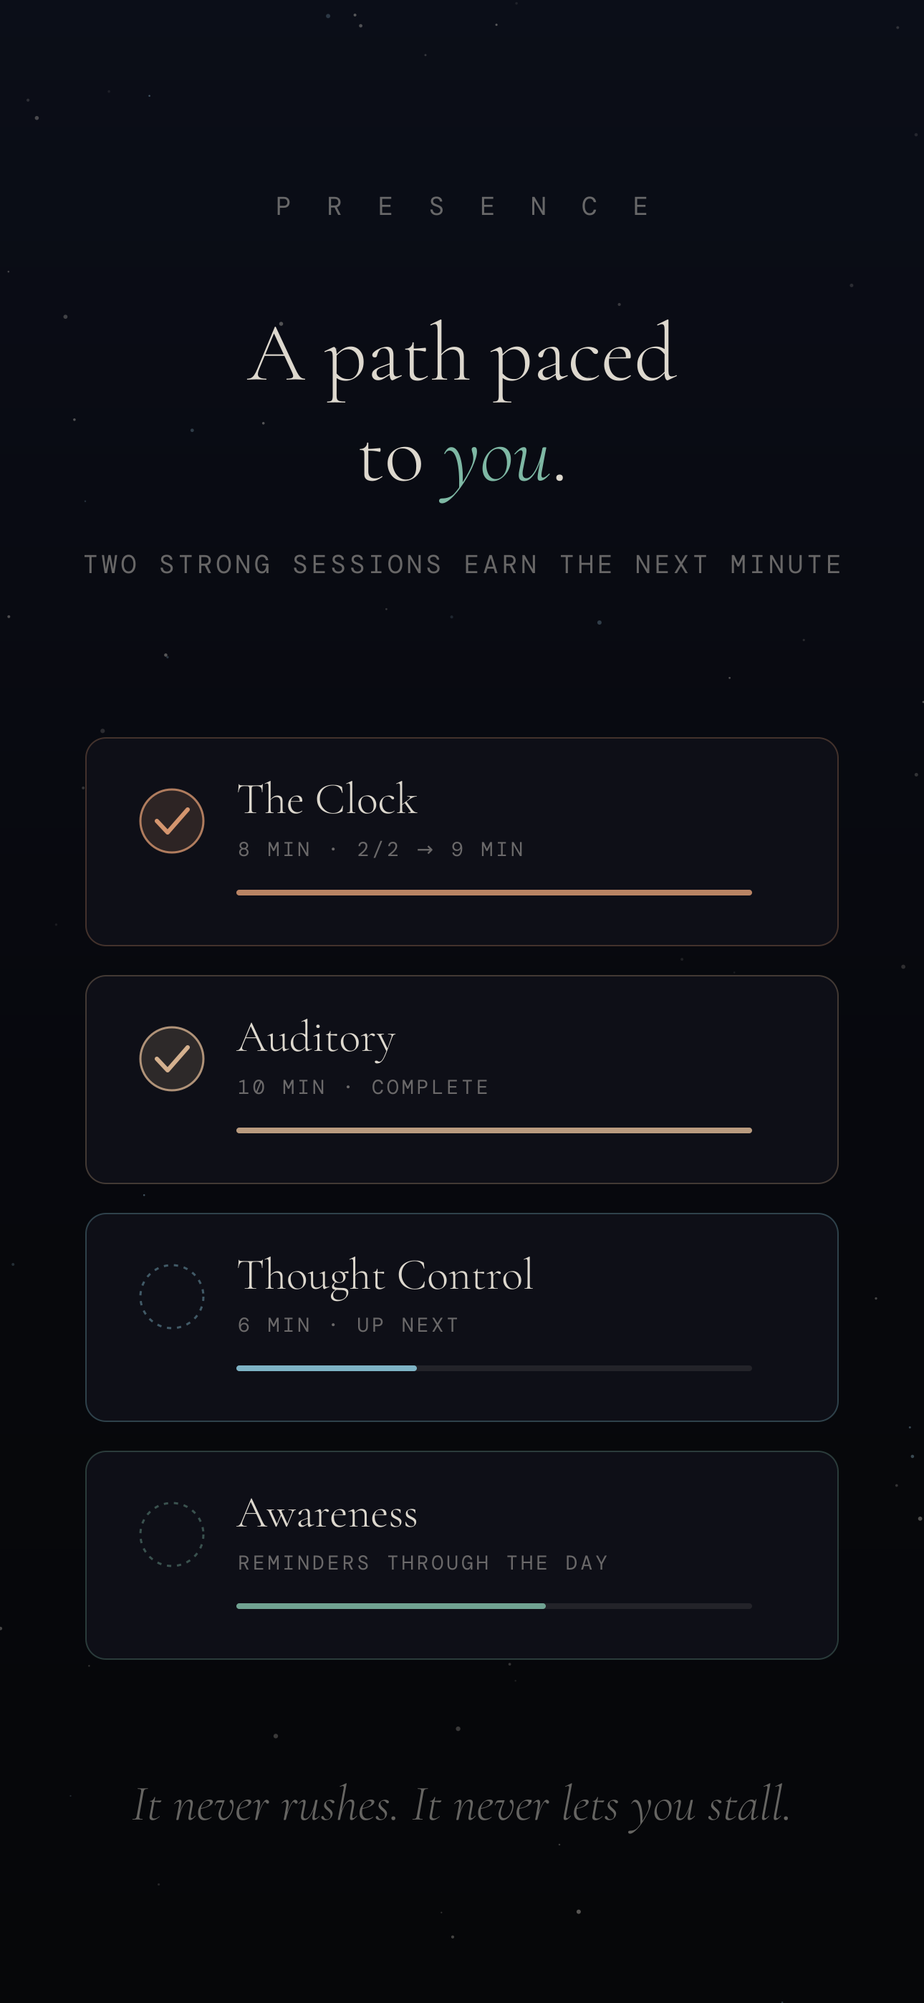
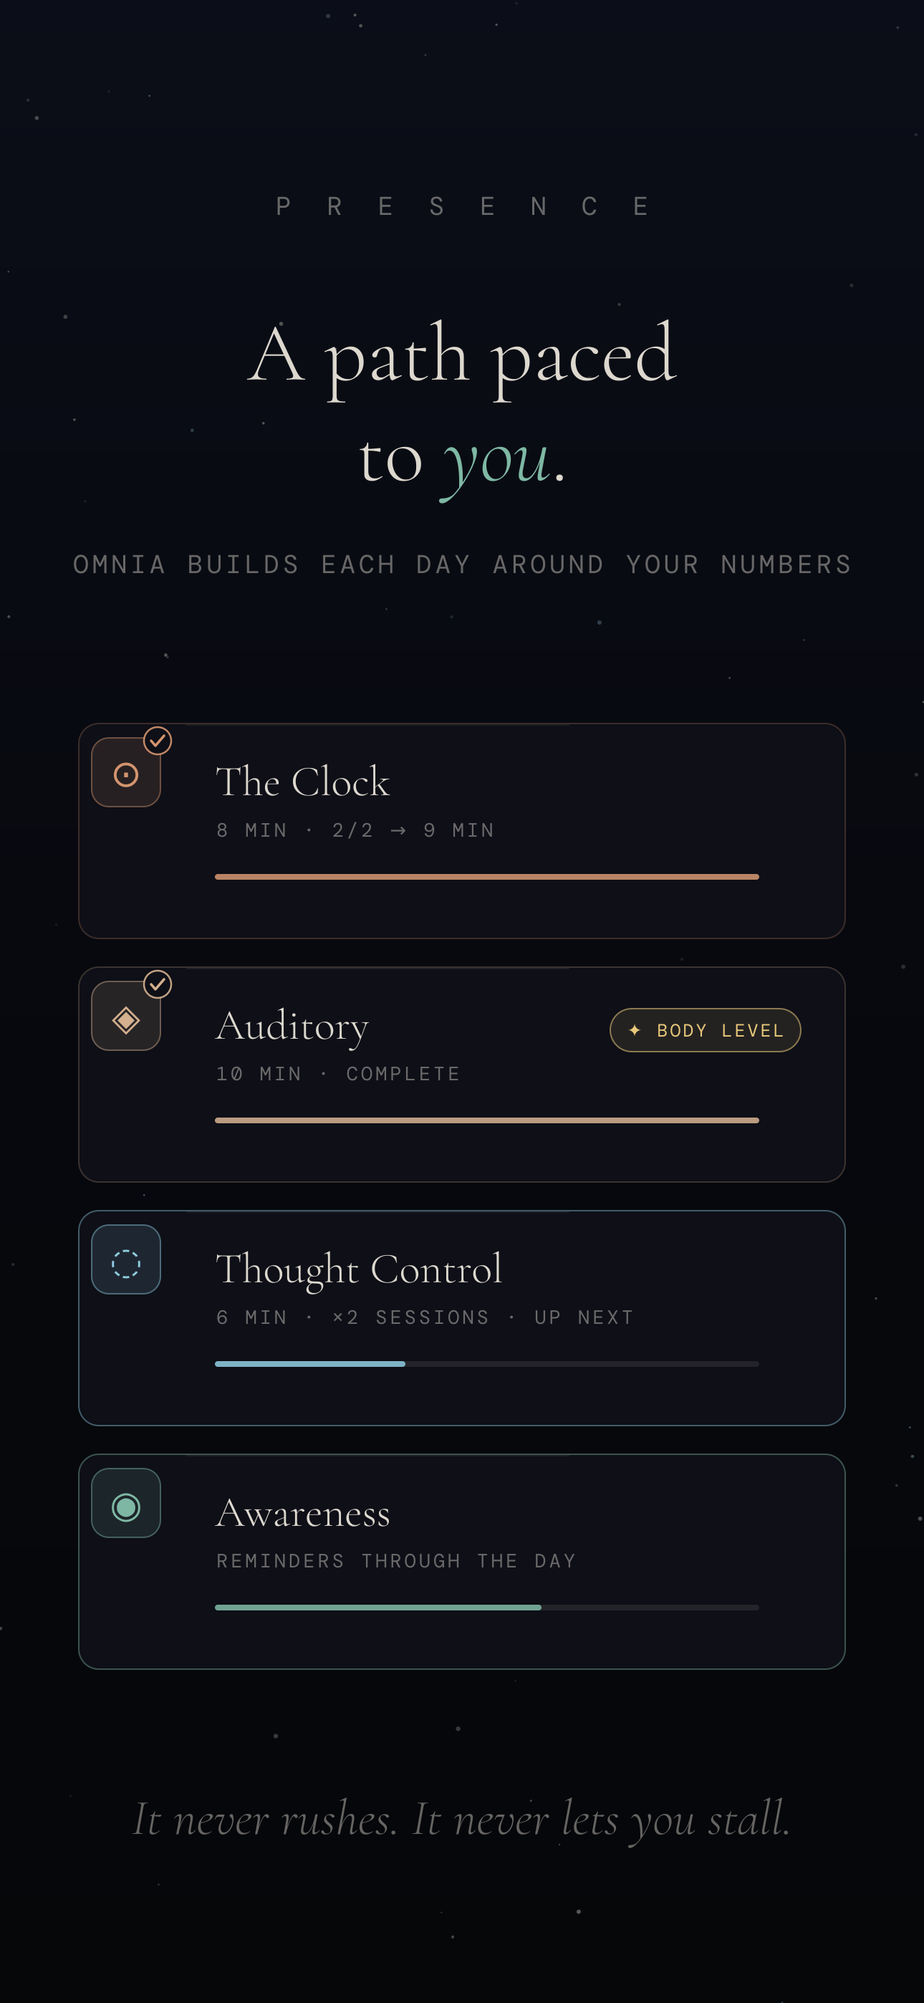
marketing: redesign App Store cards 2-4, new endgame card 5
- 02 disciplines: bare dots replaced with the app's line-icon language (sun,
  clock, inner eye, resonance arcs, stillness ring, meditator) in tinted icon
  chips; tiles get per-discipline gradients + top highlight, matching the
  in-app sound-tile look.
- 03 Omnia: 'grows as you do' is now SHOWN — a growth triptych (Day One bare
  crystal -> Step V with orbiting triad shards -> Step X crowned with drawn
  diadem stars, halo and polar pillars, gold label). Palette dots became cut
  gems; the odd wisp removed.
- 04 path: per-exercise glyph chips (DejaVu ⊙◈◌◉) with corner done-badges,
  a gold '✦ BODY LEVEL' pill on Auditory teasing Omnia's rewards, richer
  metas (×2 sessions), sub copy now 'Omnia builds each day around your
  numbers'.
- 05: progress card replaced by the endgame card — 'A practice with an
  endgame.': ring of the ten sphere sigils in their colors around a
  gold-tinted Omnia crystal with three prestige stars; chips for 15 tools /
  dark matter / 10 spheres; closing line on Prestige.
- generate.js: star4 + discIcon + goldCrystal helpers; brand fonts installed
  at render time (Cormorant Garamond, DM Mono).

diff --git a/marketing/generate.js b/marketing/generate.js
@@ -149,75 +149,137 @@ function card1() {
   `, 7);
 }
 
+// ── helpers for the redesigned cards ────────────────────────────────────────
+
+// 4-point star (diadem/sparkle) — drawn, not a glyph, so no font risk.
+function star4(cx, cy, r, c, o = 1) {
+  const k = r * 0.26;
+  return `<path d="M${cx},${cy - r} L${cx + k},${cy - k} L${cx + r},${cy} L${cx + k},${cy + k} L${cx},${cy + r} L${cx - k},${cy + k} L${cx - r},${cy} L${cx - k},${cy - k} Z" fill="${c}" opacity="${o}" filter="url(#soft)"/>`;
+}
+
+// Line icons for the six disciplines (24-box, stroke currentColor style).
+function discIcon(name, cx, cy, size, c) {
+  const s = size / 24;
+  const P = (d) => `<path d="${d}" fill="none" stroke="${c}" stroke-width="1.7" stroke-linecap="round" stroke-linejoin="round"/>`;
+  const C = (x, y, r, fill) => `<circle cx="${x}" cy="${y}" r="${r}" ${fill ? `fill="${c}" stroke="none"` : `fill="none" stroke="${c}" stroke-width="1.7"`}/>`;
+  let inner = '';
+  if (name === 'awareness') inner = C(12,12,4.4) + P('M12 3.2v2.4M12 18.4v2.4M3.2 12h2.4M18.4 12h2.4M5.9 5.9l1.7 1.7M16.4 16.4l1.7 1.7M18.1 5.9l-1.7 1.7M7.6 16.4l-1.7 1.7');
+  if (name === 'clock')     inner = C(12,12,8.4) + P('M12 6.6V12l3.6 2.2');
+  if (name === 'visual')    inner = P('M2.6 12S6 5.8 12 5.8 21.4 12 21.4 12 18 18.2 12 18.2 2.6 12 2.6 12z') + C(12,12,2.6) + C(12,12,0.9,true);
+  if (name === 'auditory')  inner = C(5.5,12,1.2,true) + P('M8.5 9a4.4 4.4 0 0 1 0 6') + P('M11.5 6.5a8.2 8.2 0 0 1 0 11') + P('M14.5 4a12.2 12.2 0 0 1 0 16');
+  if (name === 'thought')   inner = C(12,12,8.4) + C(12,12,1.6,true);
+  if (name === 'asana')     inner = C(12,5.6,2.6) + P('M12 8.6c-2.6 0-4.4 1.8-5.2 4.4L4 17.4c2.4 1.6 5.2 2.4 8 2.4s5.6-.8 8-2.4l-2.8-4.4c-.8-2.6-2.6-4.4-5.2-4.4z') + P('M8.6 15.4h6.8');
+  return `<g transform="translate(${cx - size / 2}, ${cy - size / 2}) scale(${s})">${inner}</g>`;
+}
+
 // ── card 2: six disciplines ──────────────────────────────────────────────────
 
 function card2() {
   const tiles = [
-    { name: 'Awareness', sub: 'RETURN TO NOW', c: ACCENT },
-    { name: 'The Clock', sub: 'UNBROKEN FOCUS', c: AMBER },
-    { name: 'Visualization', sub: 'THE INNER EYE', c: PURPLE },
-    { name: 'Auditory', sub: 'THE INNER EAR', c: '#d4b08e' },
-    { name: 'Thought Control', sub: 'MASTER THE MIND', c: '#8ecce0' },
-    { name: 'Asana', sub: 'STILL THE BODY', c: ROSE },
+    { id:'awareness', name: 'Awareness',      sub: 'RETURN TO NOW',   c: ACCENT },
+    { id:'clock',     name: 'The Clock',      sub: 'UNBROKEN FOCUS',  c: AMBER },
+    { id:'visual',    name: 'Visualization',  sub: 'THE INNER EYE',   c: PURPLE },
+    { id:'auditory',  name: 'Auditory',       sub: 'THE INNER EAR',   c: '#d4b08e' },
+    { id:'thought',   name: 'Thought Control',sub: 'MASTER THE MIND', c: '#8ecce0' },
+    { id:'asana',     name: 'Asana',          sub: 'STILL THE BODY',  c: ROSE },
   ];
-  const gx = 120, gw = W - gx * 2, gap = 36;
-  const tw = (gw - gap) / 2, th = 360;
-  let g = '';
+  const gx = 110, gw = W - gx * 2, gap = 34;
+  const tw = (gw - gap) / 2, th = 396;
+  let defs = '', g = '';
   tiles.forEach((t, i) => {
     const col = i % 2, row = (i / 2) | 0;
-    const x = gx + col * (tw + gap), y = 950 + row * (th + gap);
+    const x = gx + col * (tw + gap), y = 930 + row * (th + gap);
+    defs += `<linearGradient id="t${i}g" x1="0" y1="0" x2="0.6" y2="1">
+      <stop offset="0" stop-color="${t.c}" stop-opacity="0.13"/>
+      <stop offset="1" stop-color="${t.c}" stop-opacity="0.03"/></linearGradient>`;
     g += `
-    <rect x="${x}" y="${y}" width="${tw}" height="${th}" rx="30" fill="${t.c}" opacity="0.07"/>
-    <rect x="${x}" y="${y}" width="${tw}" height="${th}" rx="30" fill="none" stroke="${t.c}" stroke-opacity="0.34" stroke-width="2"/>
-    <circle cx="${x + tw / 2}" cy="${y + 118}" r="10" fill="${t.c}" opacity="0.85" filter="url(#soft)"/>
-    ${serif(x + tw / 2, y + 235, 64, TEXT, t.name)}
-    ${mono(x + tw / 2, y + 300, 26, MUTED, t.sub, 6)}`;
+    <rect x="${x}" y="${y}" width="${tw}" height="${th}" rx="30" fill="url(#t${i}g)"/>
+    <rect x="${x}" y="${y}" width="${tw}" height="${th}" rx="30" fill="none" stroke="${t.c}" stroke-opacity="0.38" stroke-width="2"/>
+    <rect x="${x + tw * 0.18}" y="${y + 1}" width="${tw * 0.64}" height="2" fill="#ffffff" opacity="0.08"/>
+    <rect x="${x + tw / 2 - 52}" y="${y + 52}" width="104" height="104" rx="26" fill="${t.c}" opacity="0.13"/>
+    <rect x="${x + tw / 2 - 52}" y="${y + 52}" width="104" height="104" rx="26" fill="none" stroke="${t.c}" stroke-opacity="0.42" stroke-width="2"/>
+    ${discIcon(t.id, x + tw / 2, y + 104, 62, t.c)}
+    ${serif(x + tw / 2, y + 262, 60, TEXT, t.name)}
+    ${mono(x + tw / 2, y + 326, 25, MUTED, t.sub, 5)}`;
   });
   return shell(`
+  <defs>${defs}</defs>
   ${wordmark(300)}
   ${serif(W / 2, 530, 116, TEXT, 'Six disciplines.')}
   ${serif(W / 2, 670, 116, ACCENT, 'One path.', 'middle', 'font-style="italic"')}
   ${mono(W / 2, 800, 36, MUTED, 'CLASSICAL CONCENTRATION TRAINING, MADE DAILY', 5)}
   ${g}
-  ${mono(W / 2, 2280 + 90, 34, FAINT, 'EACH SESSION MEASURED · EVERY REP COUNTS', 6)}
+  ${mono(W / 2, 2400, 34, FAINT, 'EACH SESSION MEASURED · EVERY REP COUNTS', 6)}
   `, 19);
 }
 
-// ── card 3: meet Omnia ───────────────────────────────────────────────────────
+// ── card 3: meet Omnia — she visibly grows ───────────────────────────────────
 
 function card3() {
-  const cy = 1430;
+  const BASE = 1760; // shared baseline for the three crystals
+  const forms = [
+    { cx: 250,  w: 230, label: 'DAY ONE' },
+    { cx: 645,  w: 330, label: 'STEP V' },
+    { cx: 1035, w: 470, label: 'STEP X' },
+  ];
+  const at = (idp, f) => crystalAt(idp, f.cx, BASE - (130 * (f.w / 80)) / 2, f.w);
+
+  // Step V adornment: the triad shards on a tilted orbit ring.
+  const shardCols = ['#e8b8a0', '#c4a8d4', '#a8c8e8'];
+  const orbit = (cx, cy, rx, ry) => {
+    let o = `<ellipse cx="${cx}" cy="${cy}" rx="${rx}" ry="${ry}" fill="none" stroke="#b8eaff" stroke-opacity="0.25" stroke-width="1.6" stroke-dasharray="3 9"/>`;
+    [[0.06, -1], [0.5, 1.06], [0.88, -0.72]].forEach((p, i) => {
+      const a = p[0] * Math.PI * 2, sx = cx + Math.cos(a) * rx, sy = cy + Math.sin(a) * ry * p[1];
+      o += `<polygon points="${sx},${sy - 13} ${sx + 11},${sy - 4} ${sx + 7},${sy + 12} ${sx - 7},${sy + 12} ${sx - 11},${sy - 4}" fill="${shardCols[i]}" opacity="0.95" filter="url(#soft)"/>`;
+    });
+    return o;
+  };
+
+  // Step X adornment: gold crown-glow + drawn diadem stars + polar pillars.
+  const cx3 = forms[2].cx, top3 = BASE - 130 * (forms[2].w / 80);
+  const crownGlow = `<ellipse cx="${cx3}" cy="${top3 + 8}" rx="120" ry="74" fill="${GOLD}" opacity="0.16" filter="url(#soft)"/>`;
+  const diadem =
+    star4(cx3 - 84, top3 + 30, 12, '#f4e8c0', 0.75) +
+    star4(cx3 - 44, top3 + 2, 15, '#f4e8c0', 0.9) +
+    star4(cx3, top3 - 12, 19, '#fff2cf', 1) +
+    star4(cx3 + 44, top3 + 2, 15, '#f4e8c0', 0.9) +
+    star4(cx3 + 84, top3 + 30, 12, '#f4e8c0', 0.75);
+  const pillar = (px) => `<rect x="${px - 5}" y="${BASE - 430}" width="10" height="380" rx="5" fill="url(#pillarG)" opacity="0.7"/>`;
+
+  // palette shown as cut gems, not flat dots
   const palette = ['#b8eaff', '#ffc4d8', '#f0d39a', '#c4a8d4', '#98d8bd', '#e8554f'];
-  let dots = '';
-  const n = palette.length, dw = 110;
+  let gems = '';
   palette.forEach((c, i) => {
-    const x = W / 2 + (i - (n - 1) / 2) * dw;
-    dots += `<circle cx="${x}" cy="2010" r="30" fill="${c}"/>
-             <circle cx="${x}" cy="2010" r="30" fill="none" stroke="#ffffff" stroke-opacity="0.18" stroke-width="2"/>
-             <circle cx="${x}" cy="2010" r="42" fill="${c}" opacity="0.12"/>`;
+    const x = W / 2 + (i - (palette.length - 1) / 2) * 112, y = 2060;
+    gems += `<circle cx="${x}" cy="${y}" r="44" fill="${c}" opacity="0.14"/>
+      <polygon points="${x},${y - 26} ${x + 20},${y} ${x},${y + 26} ${x - 20},${y}" fill="${c}" opacity="0.95"/>
+      <polygon points="${x},${y - 26} ${x + 20},${y} ${x},${y}" fill="#ffffff" opacity="0.30"/>`;
   });
-  // little wisp companion beside the crystal
-  const wisp = `
-  <g transform="translate(${W / 2 + 240}, ${cy + 170}) scale(3.4)" opacity="0.95">
-    <path d="M22 23 C16 29 9 31 4 29 C9 27 12 23 13 18 C16 21 19 23 22 23 Z" fill="${BLUE}" opacity=".3" stroke="${BLUE}" stroke-width=".8"/>
-    <circle cx="27" cy="18" r="7.5" fill="${BLUE}" opacity=".4" stroke="${BLUE}" stroke-width="1.1"/>
-    <circle cx="26" cy="15.5" r="2.8" fill="#fff" opacity=".55"/>
-    <ellipse cx="24.5" cy="18.5" rx="1" ry="1.4" fill="#1c3344" opacity=".85"/>
-    <ellipse cx="29.5" cy="18.5" rx="1" ry="1.4" fill="#1c3344" opacity=".85"/>
-    <path d="M25.4 22.4 Q27 23.6 28.6 22.4" fill="none" stroke="#1c3344" stroke-width=".7" stroke-linecap="round" opacity=".7"/>
-  </g>`;
   return shell(`
-  <ellipse cx="${W / 2}" cy="${cy}" rx="600" ry="640" fill="url(#glow)"/>
+  <defs>
+    <linearGradient id="pillarG" x1="0" y1="0" x2="0" y2="1">
+      <stop offset="0" stop-color="#dff0ff" stop-opacity="0.85"/>
+      <stop offset="1" stop-color="#dff0ff" stop-opacity="0"/>
+    </linearGradient>
+  </defs>
+  <ellipse cx="${W / 2}" cy="1440" rx="640" ry="660" fill="url(#glow)"/>
   ${wordmark(300)}
   ${serif(W / 2, 530, 124, TEXT, `Meet <tspan fill="${BLUE}">Omnia</tspan>.`)}
   ${serif(W / 2, 680, 72, MUTED, 'A living guide that grows as you do.', 'middle', 'font-style="italic"')}
-  ${crystalAt('c3', W / 2, cy, 460)}
-  ${wisp}
-  <ellipse cx="${W / 2}" cy="${cy + 480}" rx="260" ry="30" fill="#8ecce0" opacity="0.06"/>
-  ${dots}
-  ${mono(W / 2, 2130, 32, MUTED, 'NEW FORMS · COLORS · COMPANIONS', 7)}
-  ${serif(W / 2, 2330, 70, TEXT, 'Practice earns akasha — spend it', 'middle')}
-  ${serif(W / 2, 2415, 70, TEXT, `to shape your <tspan fill="${ACCENT}" font-style="italic">guide</tspan>.`, 'middle')}
+  <g opacity="0.8">${at('c3a', forms[0])}</g>
+  ${orbit(forms[1].cx, BASE - 130 * (forms[1].w / 80) / 2, 250, 84)}
+  ${at('c3b', forms[1])}
+  ${pillar(cx3 - 185)}${pillar(cx3 + 185)}
+  ${at('c3c', forms[2])}
+  ${crownGlow}${diadem}
+  <ellipse cx="${W / 2}" cy="${BASE + 46}" rx="480" ry="30" fill="#8ecce0" opacity="0.06"/>
+  ${mono(forms[0].cx, BASE + 120, 26, FAINT, forms[0].label, 5)}
+  ${mono(forms[1].cx, BASE + 120, 26, MUTED, forms[1].label, 5)}
+  ${mono(forms[2].cx, BASE + 120, 26, GOLD, forms[2].label, 5)}
+  ${gems}
+  ${mono(W / 2, 2190, 32, MUTED, 'NEW FORMS · COLORS · COMPANIONS', 7)}
+  ${serif(W / 2, 2360, 70, TEXT, 'Practice earns akasha — spend it', 'middle')}
+  ${serif(W / 2, 2445, 70, TEXT, `to shape your <tspan fill="${ACCENT}" font-style="italic">guide</tspan>.`, 'middle')}
   `, 41);
 }
 
@@ -225,81 +287,115 @@ function card3() {
 
 function card4() {
   const rows = [
-    { name: 'The Clock', meta: '8 MIN · 2/2 → 9 MIN', c: AMBER, done: true, prog: 1.0 },
-    { name: 'Auditory', meta: '10 MIN · COMPLETE', c: '#d4b08e', done: true, prog: 1.0 },
-    { name: 'Thought Control', meta: '6 MIN · UP NEXT', c: '#8ecce0', done: false, prog: 0.35 },
-    { name: 'Awareness', meta: 'REMINDERS THROUGH THE DAY', c: ACCENT, done: false, prog: 0.6 },
+    { name: 'The Clock',       glyph: '⊙', meta: '8 MIN · 2/2 → 9 MIN',          c: AMBER,     done: true,  prog: 1.0 },
+    { name: 'Auditory',        glyph: '◈', meta: '10 MIN · COMPLETE',            c: '#d4b08e', done: true,  prog: 1.0, badge: '✦ BODY LEVEL' },
+    { name: 'Thought Control', glyph: '◌', meta: '6 MIN · ×2 SESSIONS · UP NEXT', c: '#8ecce0', done: false, prog: 0.35 },
+    { name: 'Awareness',       glyph: '◉', meta: 'REMINDERS THROUGH THE DAY',    c: ACCENT,    done: false, prog: 0.6 },
   ];
-  const x = 120, w = W - 240, rh = 290, gap = 42;
+  const x = 110, w = W - 220, rh = 300, gap = 40;
   let g = '';
   rows.forEach((r, i) => {
-    const y = 1030 + i * (rh + gap);
-    const check = r.done
-      ? `<circle cx="${x + 120}" cy="${y + 116}" r="44" fill="${r.c}" opacity="0.16"/>
-         <circle cx="${x + 120}" cy="${y + 116}" r="44" fill="none" stroke="${r.c}" stroke-width="3" stroke-opacity="0.8"/>
-         <path d="M ${x + 99} ${y + 116} l 15 16 l 28 -32" fill="none" stroke="${r.c}" stroke-width="6" stroke-linecap="round" stroke-linejoin="round"/>`
-      : `<circle cx="${x + 120}" cy="${y + 116}" r="44" fill="none" stroke="${r.c}" stroke-width="3" stroke-opacity="0.4" stroke-dasharray="6 8"/>`;
+    const y = 1010 + i * (rh + gap);
+    const chipX = x + 66, chipY = y + 68;
+    const badge = r.badge
+      ? `<rect x="${x + w - 328}" y="${y + 58}" width="266" height="60" rx="30" fill="${GOLD}" opacity="0.10"/>
+         <rect x="${x + w - 328}" y="${y + 58}" width="266" height="60" rx="30" fill="none" stroke="${GOLD}" stroke-opacity="0.55" stroke-width="2"/>
+         ${mono(x + w - 195, y + 97, 25, GOLD, r.badge, 3)}`
+      : '';
+    const doneMark = r.done
+      ? `<circle cx="${chipX + 44}" cy="${chipY - 44}" r="19" fill="#0e0f17"/>
+         <circle cx="${chipX + 44}" cy="${chipY - 44}" r="19" fill="none" stroke="${r.c}" stroke-width="2.5" stroke-opacity="0.9"/>
+         <path d="M ${chipX + 35} ${chipY - 44} l 6 7 l 12 -14" fill="none" stroke="${r.c}" stroke-width="3.5" stroke-linecap="round" stroke-linejoin="round"/>`
+      : '';
     g += `
     <rect x="${x}" y="${y}" width="${w}" height="${rh}" rx="28" fill="#0e0f17"/>
-    <rect x="${x}" y="${y}" width="${w}" height="${rh}" rx="28" fill="none" stroke="${r.c}" stroke-opacity="0.28" stroke-width="2"/>
-    ${check}
-    ${serif(x + 210, y + 105, 62, TEXT, r.name, 'start')}
-    ${mono(x + 212, y + 165, 28, MUTED, r.meta, 4, 'start')}
-    <rect x="${x + 210}" y="${y + 212}" width="${w - 330}" height="8" rx="4" fill="rgba(221,216,206,0.10)"/>
-    <rect x="${x + 210}" y="${y + 212}" width="${(w - 330) * r.prog}" height="8" rx="4" fill="${r.c}" opacity="0.85"/>`;
+    <rect x="${x}" y="${y}" width="${w}" height="${rh}" rx="28" fill="none" stroke="${r.c}" stroke-opacity="${r.done ? 0.24 : 0.42}" stroke-width="2"/>
+    <rect x="${x + w * 0.14}" y="${y + 1}" width="${w * 0.5}" height="2" fill="#ffffff" opacity="0.07"/>
+    <rect x="${chipX - 48}" y="${chipY - 48}" width="96" height="96" rx="24" fill="${r.c}" opacity="0.13"/>
+    <rect x="${chipX - 48}" y="${chipY - 48}" width="96" height="96" rx="24" fill="none" stroke="${r.c}" stroke-opacity="0.45" stroke-width="2"/>
+    <text x="${chipX}" y="${chipY + 20}" font-family="DejaVu Sans" font-size="52" fill="${r.c}" text-anchor="middle">${r.glyph}</text>
+    ${doneMark}
+    ${serif(x + 190, y + 100, 60, TEXT, r.name, 'start')}
+    ${mono(x + 192, y + 158, 27, MUTED, r.meta, 4, 'start')}
+    ${badge}
+    <rect x="${x + 190}" y="${y + 210}" width="${w - 310}" height="8" rx="4" fill="rgba(221,216,206,0.10)"/>
+    <rect x="${x + 190}" y="${y + 210}" width="${(w - 310) * r.prog}" height="8" rx="4" fill="${r.c}" opacity="0.85"/>`;
   });
   return shell(`
   ${wordmark(300)}
   ${serif(W / 2, 530, 116, TEXT, 'A path paced')}
   ${serif(W / 2, 670, 116, TEXT, `to <tspan fill="${ACCENT}" font-style="italic">you</tspan>.`)}
-  ${mono(W / 2, 800, 36, MUTED, 'TWO STRONG SESSIONS EARN THE NEXT MINUTE', 5)}
+  ${mono(W / 2, 800, 36, MUTED, 'OMNIA BUILDS EACH DAY AROUND YOUR NUMBERS', 5)}
   ${g}
-  ${serif(W / 2, 2540, 70, MUTED, 'It never rushes. It never lets you stall.', 'middle', 'font-style="italic"')}
+  ${serif(W / 2, 2560, 70, MUTED, 'It never rushes. It never lets you stall.', 'middle', 'font-style="italic"')}
   `, 67);
 }
 
-// ── card 5: progress ─────────────────────────────────────────────────────────
+// ── card 5: the endgame — prestige, dark matter, the ten spheres ─────────────
+
+function goldCrystal(idp) {
+  let c = crystal(idp);
+  const map = {
+    '#ddf0ff': '#fff2cf', '#6ab8d8': '#c99f52', '#b8eaff': '#ffe9b8', '#2878a0': '#8a6a28',
+    '#90cce8': '#d8b258', '#88c4e0': '#d8b258', '#ceeaff': '#fff4d6', '#b0dcf5': '#ecd9a8',
+    '#d4ecff': '#ffeec2', '#bce0f8': '#eeda9e', '#a8d8f2': '#e8cd94', '#b4dcf4': '#e8cd8e',
+    '#4a9ec0': '#a3812f', '#ffffff': '#fffaf0'
+  };
+  for (const [a, b] of Object.entries(map)) c = c.split(a).join(b);
+  return c;
+}
 
 function card5() {
-  // 14-day bar chart
-  const vals = [0.18, 0.3, 0.22, 0.4, 0.34, 0.52, 0.45, 0.6, 0.5, 0.72, 0.66, 0.8, 0.74, 0.95];
-  const cx = 140, cw = W - 280, ch = 560, cy0 = 1660;
-  const bw = cw / vals.length * 0.55, step = cw / vals.length;
-  let bars = '';
-  vals.forEach((v, i) => {
-    const bh = ch * v;
-    const x = cx + i * step + (step - bw) / 2;
-    bars += `<rect x="${x}" y="${cy0 - bh}" width="${bw}" height="${bh}" rx="${bw / 2}" fill="${ACCENT}" opacity="${0.35 + v * 0.6}"/>`;
+  const cx = W / 2, cy = 1500, R = 430;
+  const spheres = [
+    ['⊕', '#9cb88a'], ['☽', '#cdd6e8'], ['☿', '#e8b060'], ['♀', '#e89ab8'], ['☉', '#f0d860'],
+    ['♂', '#e06858'], ['♃', '#8898e8'], ['♄', '#8a98b0'], ['♅', '#7ed8e8'], ['♇', '#9a6ae8'],
+  ];
+  let ring = `
+  <circle cx="${cx}" cy="${cy}" r="${R}" fill="none" stroke="${GOLD}" stroke-opacity="0.22" stroke-width="2"/>
+  <circle cx="${cx}" cy="${cy}" r="${R - 74}" fill="none" stroke="${PURPLE}" stroke-opacity="0.20" stroke-width="1.6" stroke-dasharray="3 10"/>`;
+  spheres.forEach((sp, i) => {
+    const a = -Math.PI / 2 + (i / spheres.length) * Math.PI * 2;
+    const sx = cx + Math.cos(a) * R, sy = cy + Math.sin(a) * R;
+    ring += `<circle cx="${sx}" cy="${sy}" r="44" fill="#0b0d14"/>
+      <circle cx="${sx}" cy="${sy}" r="44" fill="none" stroke="${sp[1]}" stroke-opacity="0.5" stroke-width="2"/>
+      <circle cx="${sx}" cy="${sy}" r="58" fill="${sp[1]}" opacity="0.07"/>
+      <text x="${sx}" y="${sy + 22}" font-family="DejaVu Sans" font-size="58" fill="${sp[1]}" text-anchor="middle" filter="url(#soft)">${sp[0]}</text>`;
   });
+  // prestige pips beneath the gold crystal
+  const pips = [-56, 0, 56].map((dx) => star4(cx + dx, cy + 300, 17, '#f4e2b0', 0.95)).join('');
   const stats = [
-    { v: 'LV 12', l: 'CONCENTRATION' },
-    { v: '21', l: 'DAY STREAK' },
-    { v: '4:24', l: 'BEST HOLD' },
+    { v: '15', l: 'TOOLS FORGED', c: GOLD },
+    { v: '◆', l: 'DARK MATTER', c: '#b48ce0' },
+    { v: '10', l: 'SPHERES', c: BLUE },
   ];
   let chips = '';
-  const chw = 330, chh = 230, chGap = 30;
-  stats.forEach((s, i) => {
-    const x = (W - (chw * 3 + chGap * 2)) / 2 + i * (chw + chGap), y = 1850;
+  const chw = 330, chh = 220, chGap = 32;
+  stats.forEach((st, i) => {
+    const x = (W - (chw * 3 + chGap * 2)) / 2 + i * (chw + chGap), y = 2100;
+    const val = st.v === '◆'
+      ? `<text x="${x + chw / 2}" y="${y + 128}" font-family="DejaVu Sans" font-size="84" fill="${st.c}" text-anchor="middle" filter="url(#soft)">◆</text>`
+      : serif(x + chw / 2, y + 122, 88, st.c, st.v);
     chips += `
     <rect x="${x}" y="${y}" width="${chw}" height="${chh}" rx="26" fill="#0e0f17"/>
-    <rect x="${x}" y="${y}" width="${chw}" height="${chh}" rx="26" fill="none" stroke="rgba(221,216,206,0.14)" stroke-width="2"/>
-    ${serif(x + chw / 2, y + 118, 84, ACCENT, s.v)}
-    ${mono(x + chw / 2, y + 178, 24, MUTED, s.l, 4)}`;
+    <rect x="${x}" y="${y}" width="${chw}" height="${chh}" rx="26" fill="none" stroke="${st.c}" stroke-opacity="0.30" stroke-width="2"/>
+    ${val}
+    ${mono(x + chw / 2, y + 176, 23, MUTED, st.l, 4)}`;
   });
   return shell(`
-  <ellipse cx="${W / 2}" cy="1300" rx="640" ry="620" fill="url(#glowGreen)"/>
+  <ellipse cx="${cx}" cy="${cy}" rx="660" ry="680" fill="url(#glow)"/>
+  <ellipse cx="${cx}" cy="${cy}" rx="420" ry="440" fill="${GOLD}" opacity="0.05"/>
   ${wordmark(300)}
-  ${serif(W / 2, 530, 116, TEXT, 'Watch the practice')}
-  ${serif(W / 2, 670, 116, ACCENT, 'deepen.', 'middle', 'font-style="italic"')}
-  ${mono(W / 2, 800, 36, MUTED, 'LEVELS · STREAKS · HONEST REPORTS', 6)}
-  <rect x="100" y="980" width="${W - 200}" height="760" rx="34" fill="#0e0f17"/>
-  <rect x="100" y="980" width="${W - 200}" height="760" rx="34" fill="none" stroke="rgba(221,216,206,0.14)" stroke-width="2"/>
-  ${mono(180, 1070, 28, MUTED, 'FOCUS, LAST 14 DAYS', 5, 'start')}
-  ${bars}
+  ${serif(W / 2, 530, 116, TEXT, 'A practice with')}
+  ${serif(W / 2, 670, 116, GOLD, 'an endgame.', 'middle', 'font-style="italic"')}
+  ${mono(W / 2, 800, 36, MUTED, 'TEN STEPS · THREE TURNINGS · TEN SPHERES', 5)}
+  ${ring}
+  <g transform="translate(${cx - 150}, ${cy - 262}) scale(3.75)">${goldCrystal('g5')}</g>
+  ${pips}
   ${chips}
-  ${serif(W / 2, 2390, 70, TEXT, 'Small sits, honestly measured,', 'middle')}
-  ${serif(W / 2, 2475, 70, TEXT, `become <tspan fill="${ACCENT}" font-style="italic">unshakable attention</tspan>.`, 'middle')}
-  `, 23);
+  ${serif(W / 2, 2500, 68, TEXT, 'Prestige rebuilds the path — deeper, faster —', 'middle')}
+  ${serif(W / 2, 2585, 68, TEXT, `until the <tspan fill="${GOLD}" font-style="italic">spheres themselves</tspan> open.`, 'middle')}
+  `, 83);
 }
 
 // ── render ───────────────────────────────────────────────────────────────────
